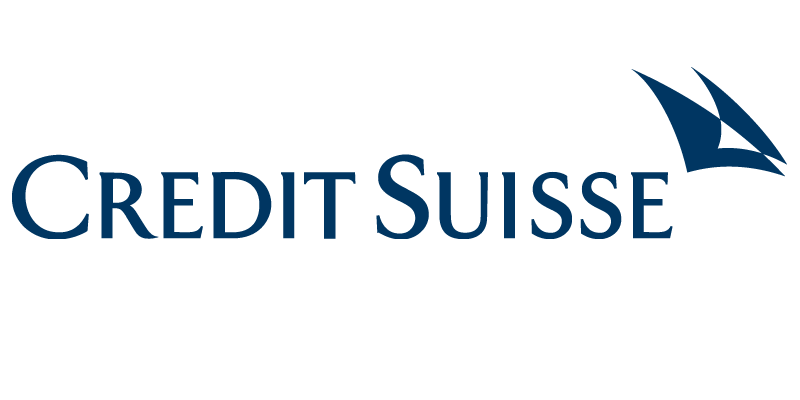
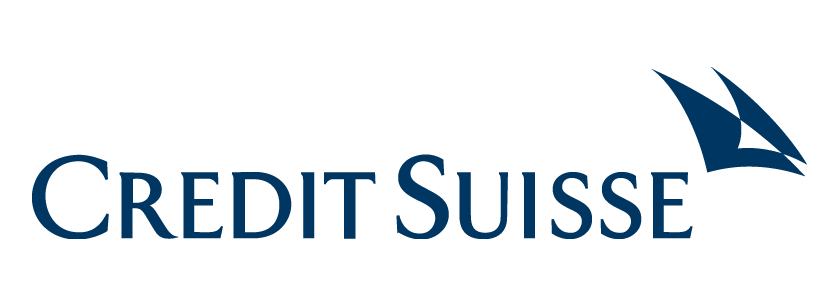
Updated sponsors for 2019

Changed region(s): [[0.0, 0.18, 1.0, 0.81]]

diff --git a/index.html b/index.html
@@ -495,56 +495,67 @@
             <div class="section sponsors">
                 <a class="nav-anchor" id="sponsors"></a>
                 <div class="container">
-                    <h2 class="center">Thanks to Last Year's Sponsors</h2>
+                    <h2 class="center">Sponsors</h2>
                     <div class='center'>
                         <div class="row sponsor-row">
-                            <div class="col m12 l6 center">
-                                <a href='https://www.capitalone.com/'>
-                                    <img class='sponsor-image tier-4' src='static/assets/images/sponsors/capitalone.png'></a>
-                            </div>
-                            <div class="col m12 l6 center">
+                            <div class="col m12 center">
                                 <a href='https://www.captechconsulting.com/'>
-                                    <img class='sponsor-image tier-4' src='static/assets/images/sponsors/captech.png'></a>
+                                <img class='sponsor-image tier-4' src='static/assets/images/sponsors/captech.png'></a>
                             </div>
                         </div>
                         <div class="row sponsor-row">
                             <div class="col m12 center">
-                                <a href='https://www.sentryone.com/'>
-                                    <img class='sponsor-image tier-3' src='static/assets/images/sponsors/sentryone.png'></a>
+                                <a href='https://www.costar.com/'>
+                                    <img class='sponsor-image tier-3' src='static/assets/images/sponsors/costar.png'></a>
                             </div>
                         </div>
                         <div class="row sponsor-row">
-                            <div class="col m12 l5 offset-l1 center">
-                                <a href='https://www.ally.com/'>
-                                    <img class='sponsor-image tier-2' src='static/assets/images/sponsors/ally.png'></a>
-                            </div>
-                            <div class="col m12 l5 center">
-                                <a href='https://www.optum.com/'>
-                                    <img class='sponsor-image tier-2' src='static/assets/images/sponsors/optum.png'></a>
+                            <div class="col m12 center">
+                                <a href='https://www.capitalone.com/'>
+                                    <img class='sponsor-image tier-3' src='static/assets/images/sponsors/capitalone.png'></a>
                             </div>
                         </div>
                         <div class="row sponsor-row">
-                            <div class="col m12 l5 offset-l1 center">
-                                <a href='https://www.globalbankers.com/'>
-                                    <img class='sponsor-image tier-2' src='static/assets/images/sponsors/globalbankers.png'></a>
+                            <div class="col m12 l4 center">
+                                <a href='https://www.allscripts.com/'>
+                                    <img class='sponsor-image tier-2' src='static/assets/images/sponsors/allscripts.png'></a>
                             </div>
-                            <div class="col m12 l5 center">
-                                <a href='https://www.equitasls.com/'>
-                                    <img class='sponsor-image tier-2' src='static/assets/images/sponsors/equitas.png'></a>
-                            </div>
-                        </div>
-                        <div class="row sponsor-row">
-                            <div class="col m12 l3 center">
-                                <a href='https://www.sas.com/'>
-                                    <img class='sponsor-image tier-1' src='static/assets/images/sponsors/sas.png'></a>
-                            </div>
-                            <div class="col m12 l3 center">
+                            <div class="col m12 l4 center">
                                 <a href='https://www.credit-suisse.com/'>
-                                    <img class='sponsor-image tier-1' src='static/assets/images/sponsors/creditsuisse.png'></a>
+                                    <img class='sponsor-image tier-2' src='static/assets/images/sponsors/creditsuisse.png'></a>
                             </div>
-                            <div class="col m12 l3 center">
-                                <a href='https://www.ge.com/'>
-                                    <img class='sponsor-image tier-1' src='static/assets/images/sponsors/ge.png'></a>
+                            <div class="col m12 l4 center">
+                                <a href='https://www.facebook.com/'>
+                                    <img class='sponsor-image tier-2' src='static/assets/images/sponsors/facebook.png'></a>
+                            </div>
+                        </div>
+                        <div class="row sponsor-row">
+                            <div class="col m12 l4 offset-l2 center">
+                                <a href='https://www.fidelity.com/'>
+                                    <img class='sponsor-image tier-2' src='static/assets/images/sponsors/fidelity.png'></a>
+                            </div>
+                            <div class="col m12 l4 center">
+                                <a href='https://macedontechnologies.com/'>
+                                    <img class='sponsor-image tier-2' src='static/assets/images/sponsors/macedon.png'></a>
+                            </div>
+                        </div>
+                        <div class="row sponsor-row">
+                            <div class="col m12 l4 offset-l2 center">
+                                <a href='https://www.metlife.com/'>
+                                    <img class='sponsor-image tier-2' src='static/assets/images/sponsors/metlife.png'></a>
+                            </div>
+                            <div class="col m12 l4 center">
+                                <a href='https://www.vanguard.com/'>
+                                    <img class='sponsor-image tier-2' src='static/assets/images/sponsors/vanguard.png'></a>
+                            </div>
+                        </div>
+                        <div class="row sponsor-row">
+                            
+                        </div>
+                        <div class="row sponsor-row">
+                            <div class="col m12 l3 offset-l3 center">
+                                <a href='https://www.stickermule.com/'>
+                                    <img class='sponsor-image tier-1' src='static/assets/images/sponsors/stickermule.png'></a>
                             </div>
                             <div class="col m12 l3 center">
                                 <a href='https://www.wolfram.com//'>
@@ -554,23 +565,23 @@
                         <div class="row sponsor-row">
                             <div class="col m12 l6 center">
                                 <a href="http://beam.unc.edu/">
-                                    <img class='sponsor-image tier-3'
+                                    <img class='sponsor-image tier-2'
                                    src='static/assets/images/sponsors/unc-beam.png'>
                                 </a>
                             </div>
                             <div class="col m12 l6 center">
                                 <a href='https://unc-cssg.org/'>
-                                    <img class='sponsor-image tier-3' src='static/assets/images/sponsors/cssgunc.png'></a>
+                                    <img class='sponsor-image tier-2' src='static/assets/images/sponsors/cssgunc.png'></a>
                             </div>
                         </div>
                         <div class='row sponsor-row'>
                             <div class='col m12 center'>
                                 <a href='https://cs.unc.edu/'>
-                                    <img class='sponsor-image tier-3' src='static/assets/images/sponsors/unc-cs.png'></a>
+                                    <img class='sponsor-image tier-2' src='static/assets/images/sponsors/unc-cs.png'></a>
                             </div>
                         </div>
                         <p class="center">Looking to sponsor HackNC 2019? Email us at <a class="sponsor-email"
-                                                                                         href="mailto:sponsors@hacknc.com">sponsors@hacknc.com</a></p>
+                                                                                         href="mailto:sponsorship@hacknc.com">sponsors@hacknc.com</a></p>
                     </div>
                 </div>
             </div>

diff --git a/static/sass/main.scss b/static/sass/main.scss
@@ -252,7 +252,7 @@ nav ul a {
 }
 
 .tier-2 {
-    max-width: 70%;
+    max-width: 60%;
     min-width: 240px;
     max-height: 180px;
 }

diff --git a/static/css/main.css b/static/css/main.css
@@ -242,7 +242,7 @@ nav ul a {
 }
 
 .tier-2 {
-  max-width: 70%;
+  max-width: 60%;
   min-width: 240px;
   max-height: 180px;
 }
